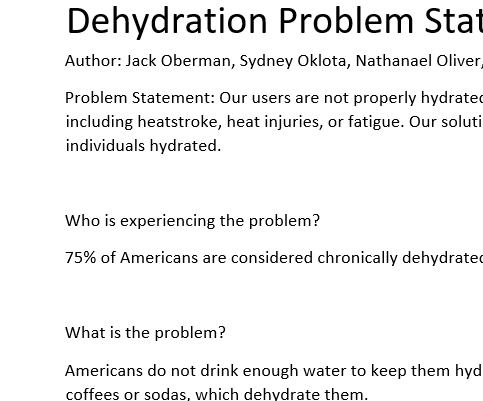
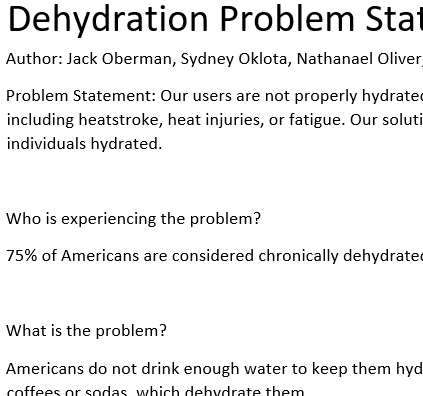
Add files via upload

diff --git a/index.html b/index.html
@@ -2,7 +2,8 @@
     <html>
         <head>
             <title>CSCE 190 Sydney Oklota</title>
-        </head>
+            <link rel="stylesheet" href="styles.css"   >   
+          </head>
         <body>
             <H1> Sydney Oklota's CSCE 190 Site</H1>
 

diff --git a/styles.css b/styles.css
@@ -1,0 +1,9 @@
+body{
+    background: rgb(201, 192, 255);
+    font-family: Arial, Helvetica, sans-serif;
+}
+
+h1{
+    color: rgb(41, 10, 56);
+    text-align: center;
+}
